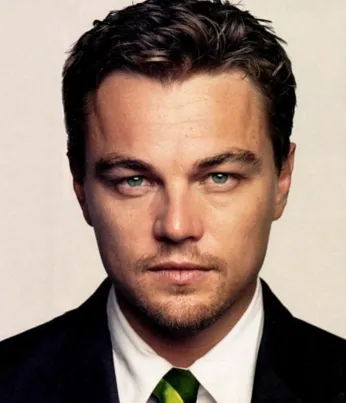
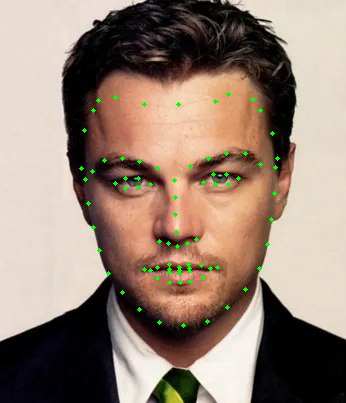
version 3
seguerencias y carga de de imagen , la que salia asul

diff --git a/facestylebarber/src/Components/Image/ImageUploader.jsx b/facestylebarber/src/Components/Image/ImageUploader.jsx
@@ -3,6 +3,7 @@ import { ToastContainer, toast } from 'react-toastify';
 import 'react-toastify/dist/ReactToastify.css';
 import './ImageUploader.css'; // Importar el archivo CSS
 
+// import image from '../../../public/image/1.jpg'
 
 
 function ImageUploader() {
@@ -71,6 +72,9 @@ function ImageUploader() {
                 const proceso =  `../../IA/imagenes/${responseData.processed_image_path.replace(/\\/g, '/')}`;
                 setProcessedImagePath(proceso);
                 console.log(processedImagePath);
+
+
+                fetchImage();
             } else {
                 console.error('Error al enviar la imagen a la API.');
             }
@@ -88,11 +92,74 @@ function ImageUploader() {
         toast.info('IMAGEN BORRADA');
     };
 
-    // Función para verificar la conectividad con el servidor Flask en el puerto 5000
-    
+    // Función para obtener las sugerencias de corte según el tipo de rostro
+    const getCorteSugerido = (faceType) => {
+        console.log(faceType);
+        switch (faceType) {
+            case "CORAZÓN": // Rostro Corazón
+                return (
+                    <div>
+                        <h3>Rostro de Corazón</h3>
+                        <p>Su rostro se considera bastante armónico ya que la frente es más ancha que los maxilares o los pómulos, los cuáles suelen marcarse bastante.</p>
+                        <p>Los flequillos son los mejores aliados, ya que te permitirán disimular la frente. También los peinados de raya, y los de efecto algo despeinado.</p>
+                    </div>
+                );
+            case "ALARGADO": // Rostro Alargado
+                return (
+                    <div>
+                        <h3>Rostro Alargado</h3>
+                        <p>Su rostro es igual que los cuadrados en lo que se refiere a las proporciones, aunque la frente y barbilla serán redondeadas en lugar de ser angulares. Su tipo de rostro es más común de lo que puedes pensar y además del corte que podemos recomendarte te digo que si tienes rostro alargado y te dejas barba te verás muy favorecido</p>
+                        <p>Si deseas que tu rostro no se vea tan alargado, deberás llevar un corte en el que se tenga mayor volumen en la parte superior, incluyendo la frente y los lados de la cabeza, manteniendo el cabello de esa zona un poco más largo alrededor de las oreja.</p>
+                    </div>
+                );
+            case "OVALADO": // Rostro Ovalado
+                return (
+                    <div>
+                        <h3>Rostro Ovalado</h3>
+                        <p>Su rostro tiene la forma de la cara alargada y redonda. La frente sobresale poco, de la misma manera que la barbilla...</p>
+                        <p>Las mejillas dominan su contorno y la barbilla es más corta que la frente. Es un tipo de rostro, junto al cuadrado muy común entre los hombres </p>
+                        <p>Su rostro es ideal ya que guarda bastante las proporciones, por lo que cualquier peinado te quedará genial, aunque quizás los más cortos son los que mejor puedan marcar la perfección de tus facciones. Consejo no lleves peinados con mucho flequillo ya que se te verá el rostro más ovalado todavía y de preferencia, elige peinados o cortes en los que el cabello se peine hacia arriba, hacia un lado o hacia atrás, ya que la frente despejada favorece mucho para este tipo de rostro peinados largos.</p>
+                    </div>
+                );
+            case "REDONDO": // Rostro Redondo
+                return (
+                    <div>
+                        <h3>Rostro Redondo</h3>
+                        <p>Tal y cómo indica su propia palabra, la cara redonda es la cara que tiene forma completamente redondeada, sin que sobresalgan ni mentón, ni pómulos ni nada. Su rostro, crea una especie de círculo a partir de la anchura que suele tener a la altura de las mejillas, la curva que tiene en la frente y en la barbilla. </p>
+                        <p>El mejor corte será un corte largo que permita disimular un poco esa redondez, o concentrar mayor volumen en la parte alta de la cabeza para poder atraer a este punto todas las miradas. Los peinados con raya puede que le favorezcan también o como ves arriba todos aquellos con los que “juegues” en lo que respecta al volumen y hacia arriba de modo que puedas crear el efecto de que las facciones redondeadas quedan algo más disimuladas.</p>
+                    </div>
+                );
+            case "CUADRADO": // Rostro Cuadrado
+                return (
+                    <div>
+                        <h3>Rostro Cuadrado</h3>
+                        <p>Su rostro tiene los maxilares muy marcados. Presenta la frente y la barbilla planas. Se asocia con ser el tipo de rostro más masculino de todos. No obstante, le sucede como al triangular, que no es el más común. Dependiendo de si te gustan las facciones marcadas y masculinas puedes elegir cortes que las disimulen o que las marquen más.</p>
+                        <p>El corte ideal para su tipo de rostro es poder suavizar un poco sus facciones. Que los ángulos de su cara no se marquen tanto por lo que un corte con volumen en el centro y los lados rapados será sin duda tu corte de cabello perfecto. Los flequillos también pueden quedarte muy bien y como no.</p>
+                        <p>Todo lo que sean cortes por encima sus orejas y patillas cortas le van a favorecer de modo que tus facciones no se vean tan cuadradas. Por otro lado, si optas por llevar barba, es una buena idea dejarla un poco larga de modo que la mandíbula se vea más alargada.</p>
+                    </div>
+                );
+            default:
+                return null;
+        }
+    };
 
+    const [imageUrl, setImageUrl] = useState('');
+
+    const fetchImage = async () => {
+        try {
+            const response = await fetch('http://localhost:4000/image'); // Cambia la URL según sea necesario
+            if (!response.ok) {
+                throw new Error('Error al obtener la imagen');
+            }
+            const blob = await response.blob();
+            setImageUrl(URL.createObjectURL(blob));
+        } catch (error) {
+            console.error('Error al obtener la imagen:', error);
+        }
+    };
     return (
-        <div className="container">
+        <div>
+        <div className="header">
             <h2>Subir Imagen</h2>            
             {/* Formulario para seleccionar una imagen */}
             <input
@@ -124,19 +191,22 @@ function ImageUploader() {
             )}
             
             {/* Mostrar el tipo de rostro si la imagen se ha subido correctamente */}
-           
-            {/* <img src="../../IA/imagenes/processed_corazon.webp" alt="Corazón procesado"/> */}
+            </div>
 
             {imageUploaded && faceType && (
-                <div>
-                    <h1>Tipo de rostro: {faceType}</h1>
-                    <img src={processedImagePath}  alt="Imagen procesada" />
-                    <img src={`${process.env.PUBLIC_URL}/IA/imagenes/${1}`} alt="Imagen procesada" />
+                <div className='container'>
+                    <h1>Su Tipo De Rostro Predecido: </h1>
+                    <h1>{faceType}</h1>
+                    {imageUrl && <img src={imageUrl} alt="Imagen desde la API" />}
+                    {/* <img src={processedImagePath}  alt="Imagen procesada" />
+                    <img src={`${process.env.PUBLIC_URL}/IA/imagenes/${1}`} alt="Imagen procesada" /> */}
+                    {getCorteSugerido(faceType)}
                 </div>
             )}
 
             {/* Contenedor para mostrar las notificaciones */}
             <ToastContainer />
+        
         </div>
     );
 }

diff --git a/facestylebarber/src/IA/app.py b/facestylebarber/src/IA/app.py
@@ -1,7 +1,7 @@
 import os
 os.environ['TF_ENABLE_ONEDNN_OPTS'] = '0'
 os.environ['TF_CPP_MIN_LOG_LEVEL'] = '2'
-from flask import Flask, request, jsonify, Response ,stream_with_context
+from flask import Flask, request, jsonify, Response ,stream_with_context,send_file
 from flask_cors import CORS
 from PIL import Image
 import keras
@@ -34,7 +34,7 @@ modelo_cargado = keras.models.load_model('tipo_rostros.h5')
 
 # Ruta donde se guardarán las imágenes
 upload_dir = 'imagenes'
-
+image_gobla = ''
 
 def distance(point1, point2):
     # Unpack the coordinates from the input arrays
@@ -98,6 +98,10 @@ def upload_image():
         image_file = request.files['image']
         original_filename = image_file.filename
 
+        global image_gobla
+
+        image_gobla = original_filename
+        # print(image_gobla)
         try:
             # Procesar la imagen con Pillow (PIL)
             image = Image.open(image_file)
@@ -107,29 +111,20 @@ def upload_image():
 
             features, processed_image = process_image(os.path.join(upload_dir, original_filename))
 
+            # cv2.imshow('Imagen con puntos de referencia', processed_image)
+            # cv2.waitKey(0)
+            # cv2.destroyAllWindows()
+
+            processed_image_path = os.path.join(upload_dir,original_filename)
+            cv2.imwrite(processed_image_path, processed_image)
+
             print('Características extraídas:', features)
             print('Imagen procesada con éxito.')
-
-            # Guardar la imagen procesada utilizando Pillow (PIL)
-            processed_image_pil = Image.fromarray(processed_image)
-            processed_image_path = os.path.join(upload_dir, 'processed_' + original_filename)
-            processed_image_pil.save(processed_image_path)
-
-            # Convertir la imagen procesada a bytes
-            # buffered = BytesIO()
-            # processed_image.save(buffered, format="JPEG")
-            # img_bytes = buffered.getvalue()
-
-            # # Codificar los bytes de la imagen en base64
-            # img_base64 = base64.b64encode(img_bytes).decode()
-
-
-            # Devolver una respuesta exitosa al cliente
+           
             return jsonify({
                 'success': True,
                 'message': 'Imagen recibida y procesada exitosamente.',
                 'processed_image_path': processed_image_path,
-                # 'processed_image_base64': img_base64,
                 'face_type': features
             }), 200
         except Exception as e:
@@ -146,6 +141,7 @@ def process_image(image_path):
     image = cv2.imread(image_path)
     gray = cv2.cvtColor(image, cv2.COLOR_BGR2GRAY)
     faces_prueba = detector(gray)
+
 
     features = []
     for face in faces_prueba:
@@ -229,7 +225,9 @@ def process_image(image_path):
 
     # Mostrar la imagen con los puntos de referencia
     # Convertir la imagen procesada a RGB
-    
+    # cv2.imshow('Imagen con puntos de referencia', image)
+    # cv2.waitKey(0)
+    # cv2.destroyAllWindows()
     # 
     features = np.array(features)  # Convertir a matriz NumPy
     features = np.expand_dims(features, axis=0)
@@ -400,6 +398,23 @@ def stop_video():
         Rostro = 'NO DETECTADO'
         print('Liberar la captura de video')
     return 'Video detenido exitosamente'
+
+# Ruta para servir la imagen
+# import os
+# from flask import send_file
+
+@app.route('/image')
+def get_image():
+    global image_gobla
+    # Obtener la ruta absoluta de la imagen
+    # image_path = os.path.abspath('1.jpg')
+    # image_path = os.path.abspath('C:/Users/juanA/OneDrive/Documentos/GitHub/FaceStyle-Barber/facestylebarber/src/IA/imagenes/1.jpg')
+    # print(';;;;;;;')
+    print(image_gobla)
+    image_path = os.path.abspath(f'C:/Users/juanA/OneDrive/Documentos/GitHub/FaceStyle-Barber/facestylebarber/src/IA/imagenes/{image_gobla}')
+    # Envía la imagen como respuesta
+    return send_file(image_path, mimetype='image/jpeg')
+
 
 
 # Iniciar el servidor
